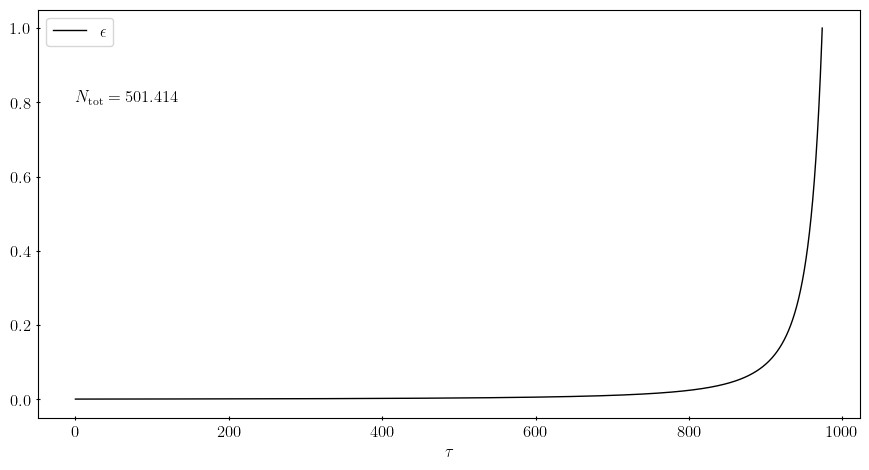
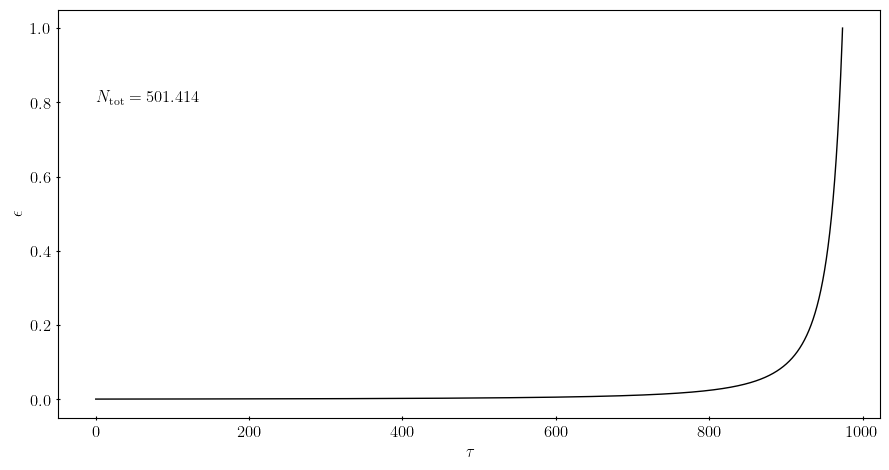
Closing in

diff --git a/project-3/inflation.py b/project-3/inflation.py
@@ -265,10 +265,13 @@ class InflationModel:
 			if self.eta is not None:
 
 				ax.plot(self.tau[self.inflation_idx], self.eta[self.inflation_idx], label=r'$\eta$')
+				ax.legend()
 
 			ax.text(text_xpos, text_ypos, r'$N_\mathrm{tot}=' + f'{self.N_tot:.3f}$')
-			ax.legend()
 			ax.set_xlabel(r'$\tau$')
+
+			ylabel = r'$\epsilon$' if self.eta is None else None
+			ax.set_ylabel(ylabel)
 
 			fig.savefig('figures/' + self.name + 'Ntot-compare-with-SRA.pdf', bbox_inches='tight')
 			fig.savefig('figures/' + self.name + 'Ntot-compare-with-SRA.png', bbox_inches='tight')
@@ -307,12 +310,15 @@ class InflationModel:
 		fig.savefig('figures/' + self.name + 'w_phi.pdf', bbox_inches='tight')
 		fig.savefig('figures/' + self.name + 'w_phi.png', bbox_inches='tight')
 
-	def SRA_params_remaining_e_folds(self):
+	def SRA_params_remaining_e_folds(self, include_approx=False):
 		'''
 		Plot the SRA parameters epsilon and eta as functions
 		of e-folds. If epsilon=eta, i.e. self.eta=None, only
 		the epsilon parameter will be plotted.
+
+		:param include_approx: boolean, True/False
 		'''
+		save_name = self.name
 		idx = self.epsilon <= 1
 
 		N_left = self.N_tot - self.ln_a_ai[idx]
@@ -334,32 +340,40 @@ class InflationModel:
 
 		fig, ax = plt.subplots()
 
-		ax.plot(N_left, self.epsilon[idx], label=r'$\epsilon$')
+		ax.plot(N_left, self.epsilon[idx], label=r'$\epsilon_\mathrm{exact}$')
 
 		ax.set_xscale('log')
 		ax.set_xlabel(r'Remaining $e$-folds of inflation')
 		ylabel = r'$\epsilon$' if self.name == 'phi2_' else None
 		ax.set_ylabel(ylabel)
 
-		if self.eta is not None and self.name == 'starobinsky_':
+		if self.eta is not None:
 
-			ax.plot(N_SRA[idx_SRA], epsilon_SRA[idx_SRA], ls='dashed', color='black', label=r'$\epsilon_\mathrm{SRA}$')
-			ax.plot(N_left, self.eta[idx], label=r'$\eta$')
-			ax.plot(N_SRA[idx_SRA], eta_SRA[idx_SRA], ls='dashed', color='red', label=r'$\eta_\mathrm{SRA}$')
+			ax.plot(N_left, self.eta[idx], label=r'$\eta_\mathrm{exact}$')
+
+			if include_approx:
+
+				ax.plot(N_SRA[idx_SRA], epsilon_SRA[idx_SRA], ls='dashed', color='black', label=r'$\epsilon\approx\frac{3}{4N^2}$')
+				ax.plot(N_SRA[idx_SRA], eta_SRA[idx_SRA], ls='dashed', color='red', label=r'$\eta\approx-\frac{1}{N}$')
+
+				save_name += 'with_approx_'
 
 			ax.legend()
 
 		ax.invert_xaxis()
 
-		fig.savefig('figures/' + self.name + 'epsilon_remainding_efolds.pdf', bbox_inches='tight')
-		fig.savefig('figures/' + self.name + 'epsilon_remainding_efolds.png', bbox_inches='tight')
+		fig.savefig('figures/' + save_name + 'epsilon_remainding_efolds.pdf', bbox_inches='tight')
+		fig.savefig('figures/' + save_name + 'epsilon_remainding_efolds.png', bbox_inches='tight')
 
-	def plot_tensor_to_scalar_ratio(self):
+	def plot_tensor_to_scalar_ratio(self, include_approx=False):
 		'''
 		Plot the tensor-to-scalar ration r as function of
 		the scalar spectral index n. Also, the upper limit
 		for r of 0.044 is included as a shaded region in the plot.
+
+		:param include_approx: boolean, True/False
 		'''
+		save_name = self.name
 		N = self.N_tot - self.ln_a_ai
 		N_idx = np.logical_and(N >= 50, N <= 60)
 
@@ -377,6 +391,8 @@ class InflationModel:
 
 		y_max = np.max([np.max(r), 0.044])
 
+		fill_x = n
+
 		fig, ax = plt.subplots()
 
 		ax.plot(n, r)
@@ -391,17 +407,20 @@ class InflationModel:
 			n_SRA = 1 - 2 / N_SRA[N_idx_SRA]
 			r_SRA = 12 / N_SRA[N_idx_SRA]**2
 
-			ax.plot(n_SRA, r_SRA, ls='dashed', label='SRA')
-			ax.legend()
+			if include_approx:
 
-		fill_x = n if self.name == 'phi2_' else [np.min([np.min(n), np.min(n_SRA)]), np.max([np.max(n), np.max(n_SRA)])]
+				ax.plot(n_SRA, r_SRA, ls='dotted', label='Approx.')
+				ax.legend()
+
+				fill_x = [np.min([np.min(n), np.min(n_SRA)]), np.max([np.max(n), np.max(n_SRA)])]
+				save_name += 'with_approx_'
 
 		ax.fill_between(fill_x, 0.044, alpha=0.25)
 		ax.text(x_text, 0.02, r'$r<0.044$', ha='center')
-		ax.set_xlabel('n')
-		ax.set_ylabel('r')
+		ax.set_xlabel(r'$n$')
+		ax.set_ylabel(r'$r$')
 		ax.set_xlim([np.min(fill_x), np.max(fill_x)])
 		ax.set_ylim([0, 1.1 * y_max])
 
-		fig.savefig('figures/' + self.name + 'n-r-plane.pdf', bbox_inches='tight')
-		fig.savefig('figures/' + self.name + 'n-r-plane.png', bbox_inches='tight')
+		fig.savefig('figures/' + save_name + 'n-r-plane.pdf', bbox_inches='tight')
+		fig.savefig('figures/' + save_name + 'n-r-plane.png', bbox_inches='tight')

diff --git a/project-3/inflation_models.py b/project-3/inflation_models.py
@@ -120,6 +120,8 @@ starobinsky.plot_solutions()
 starobinsky.num_e_folds(guess=None, plot=False)
 starobinsky.pressure_energy_density_ratio(zoomed=True)
 starobinsky.SRA_params_remaining_e_folds()
+starobinsky.SRA_params_remaining_e_folds(include_approx=True)
 starobinsky.plot_tensor_to_scalar_ratio()
+starobinsky.plot_tensor_to_scalar_ratio(include_approx=True)
 
 plt.show()
